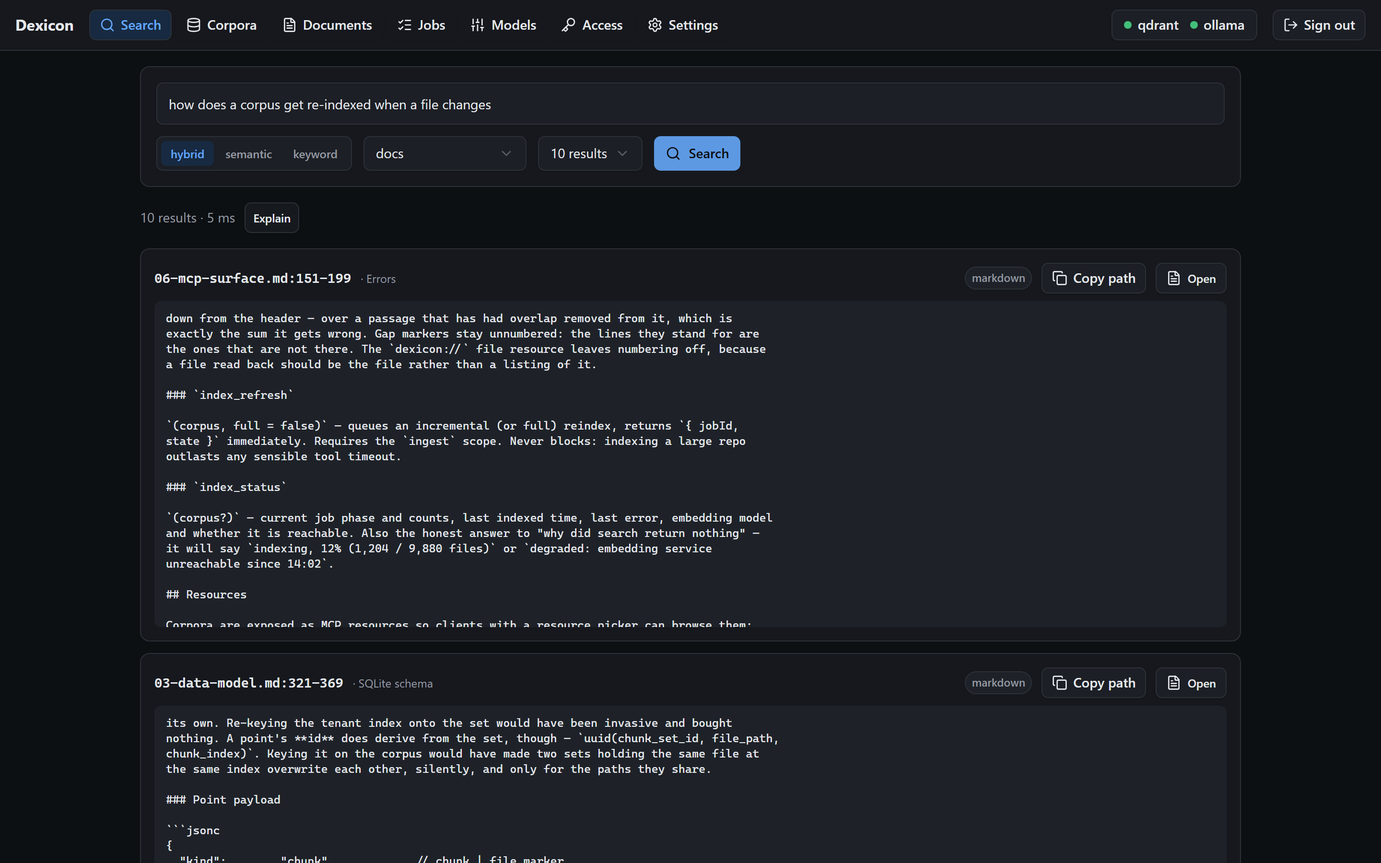
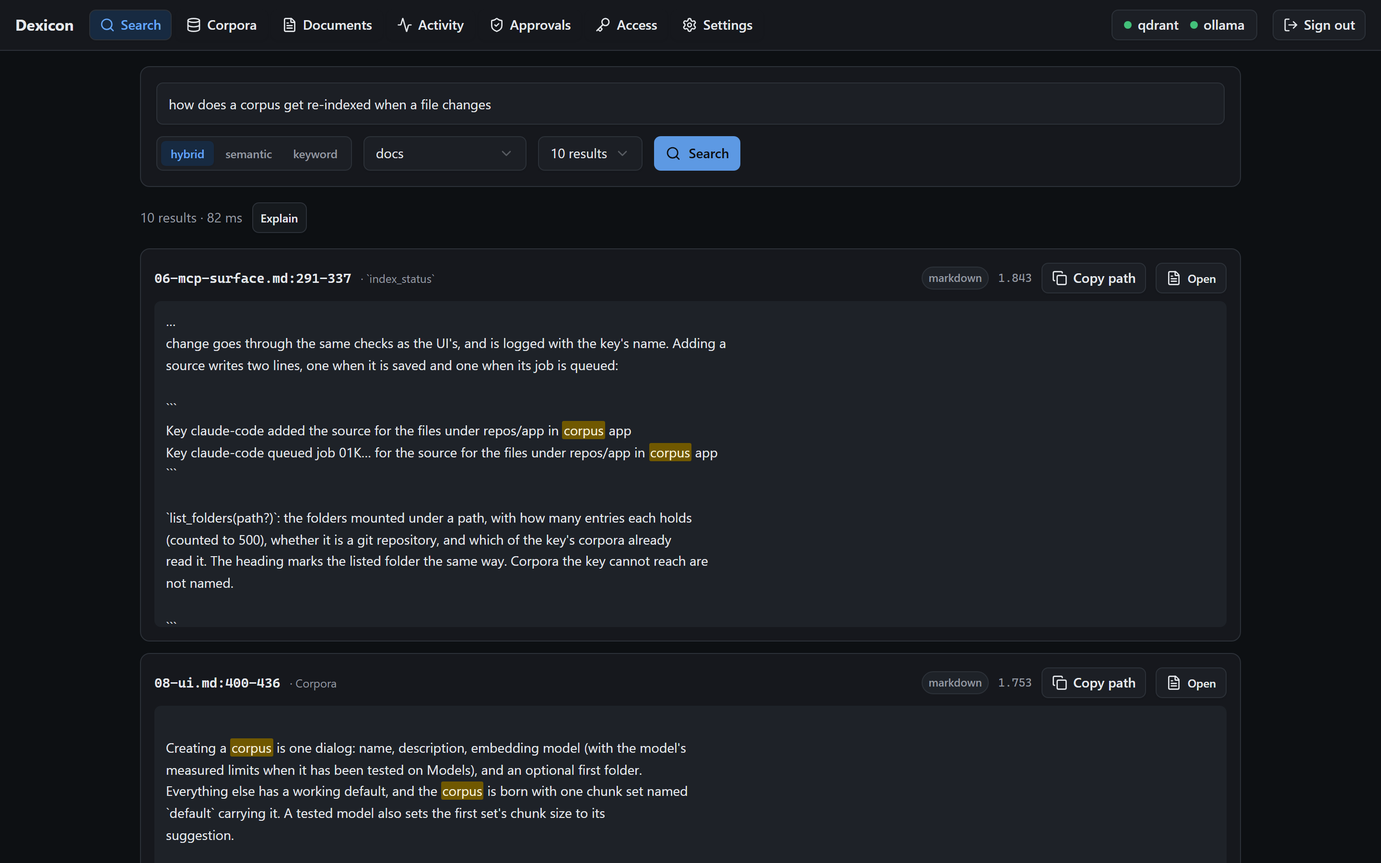
correct the documentation against the code before 0.8.0 (#363)
* correct the docs on chunking, the search log and configuration import

- language-aware chunking fills to the budget and backs up to the last member
  boundary (docs/04, CodeChunker comment)
- search log: the `other` surface, the disabled log and dropped rows, and
  retention 0 keeping every row (docs/02, 03, 05); the screen is Search history
  (.env.example)
- import reads one chunk set for a corpus it creates (docs/11); the key mapping
  export exists and import does not read keys (docs/07); the import result list
  (docs/08); which sources the export holds (docs/10)
- Key.Scopes comment lists all five issuable scopes

* correct the UI docs on retries, loading, failure units and sign-in with a key

- a refresh retries only failures that may not recur, and the Full reindex
  dialog says so (docs/08, docs/04)
- the failure unit is files, commits or documents, with stashes counting as
  documents (docs/08)
- which screens show "Loading..." for their own list (docs/08)
- a key pasted into the sign-in form is refused as an incorrect password
  (troubleshooting)

* correct the MCP docs on the result header, resource scope errors and context cuts

- search_index says "1 result" or "No results" for one or none (docs/05)
- a dexicon:// resource's scope error has no Access-page sentence (docs/06)
- keep the pathPrefix description cell to the text the tool advertises (docs/06)
- the context hook comment: the server cuts the last block to fit
[…]

diff --git a/clients/web-ui/src/api.test.ts b/clients/web-ui/src/api.test.ts
@@ -82,16 +82,16 @@ describe('a failing request', () => {
   });
 
   it('carries the server’s own message, which is written for a person to act on', async () => {
-    // "Unknown corpus 'api'. Visible corpora: api-repo, rfc-library." is the most useful
+    // "Unknown corpus 'api'. Corpora this key can reach: api-repo, rfc-library." is the most useful
     // thing in the response; a generic "Request failed" throws it away.
     fetchMock.mockResolvedValue(
-      problem(404, 'Unknown corpus', "Unknown corpus 'api'. Visible corpora: api-repo."),
+      problem(404, 'Unknown corpus', "Unknown corpus 'api'. Corpora this key can reach: api-repo."),
     );
 
     await expect(api.getCorpus('api')).rejects.toMatchObject({
       status: 404,
       title: 'Unknown corpus',
-      detail: "Unknown corpus 'api'. Visible corpora: api-repo.",
+      detail: "Unknown corpus 'api'. Corpora this key can reach: api-repo.",
     });
   });
 

diff --git a/clients/web-ui/src/CorpusDetail.test.tsx b/clients/web-ui/src/CorpusDetail.test.tsx
@@ -2638,9 +2638,9 @@ describe('the full reindex', () => {
       .toBeInTheDocument();
   });
 
-  it('mentions the failures it will retry, and that a refresh retries them too', async () => {
+  it('mentions the failures it will retry, and which of them a refresh retries', async () => {
     // Otherwise a failed file is a reason to reach for the expensive button when the cheap
-    // one would have done it: a failed file has no fingerprint to skip on.
+    // one would have done it: a refresh retries a failure that may not recur.
     getCorpus.mockResolvedValue(corpus({ chunkSets: [chunkSet({ failedCount: 8 })] }));
 
     render(<CorpusDetail {...props} />);

diff --git a/clients/web-ui/src/api.ts b/clients/web-ui/src/api.ts
@@ -199,7 +199,7 @@ export class ApiError extends Error {
  * Turns whatever the generated client threw into the one error shape the UI renders.
  *
  * The server answers failures with RFC 9457 problem details and writes them for a person
- * to act on: "Unknown corpus 'api'. Visible corpora: api-repo, rfc-library." Losing that
+ * to act on: "Unknown corpus 'api'. Corpora this key can reach: api-repo, rfc-library." Losing that
  * to a generic message would throw away the most useful thing in the response.
  */
 function toApiError(e: unknown, status = 0): ApiError {

diff --git a/src/Dexicon.Core/Indexing/CodeChunker.cs b/src/Dexicon.Core/Indexing/CodeChunker.cs
@@ -69,12 +69,13 @@ public sealed record ChunkOptions
 }
 
 /// <summary>
-/// Line-accumulating chunker. Never splits a line, so every chunk carries an exact
+/// Line-accumulating chunker. Splits a line only when it is longer than the whole budget
+/// (every piece keeps that line's number), so every chunk carries an exact
 /// <c>start_line</c>/<c>end_line</c> and a result is directly openable in an editor.
 ///
-/// With <c>language-aware</c> the file is first split at member boundaries, then each
-/// segment is size-chunked, which keeps a method with its signature instead of slicing
-/// it at an arbitrary token count.
+/// With <c>language-aware</c> the accumulator fills to the budget and then backs up to
+/// the last member boundary in the buffer (see <c>ChunkLines</c>), so a chunk holds whole
+/// members where they fit and a method stays with its signature.
 /// </summary>
 public static class CodeChunker
 {

diff --git a/hooks/claude/dexicon-context.py b/hooks/claude/dexicon-context.py
@@ -110,8 +110,8 @@ def main() -> int:
 
     # The server explains itself, and does it better than this hook could: the note names
     # the smallest chunk it had to reject, so "raise the budget" comes with the figure.
-    # Nothing is truncated to fit, by design -- the unit is a whole chunk, because half a
-    # passage under a citation claiming to be the passage reads as complete and is not.
+    # The server cuts only the last block to fit, and says so in the passage, the citation
+    # (`partial`, `omittedChars`) and the note, so the hook passes the text on unchanged.
     note = (result.get("note") or "").strip()
 
     context = (result.get("context") or "").strip()

diff --git a/src/Dexicon.Core/Catalog/Entities.cs b/src/Dexicon.Core/Catalog/Entities.cs
@@ -15,7 +15,7 @@ public sealed class ApiToken
     public required string Name { get; set; }
     public required byte[] TokenHash { get; set; }
     public required byte[] TokenSalt { get; set; }
-    public required string Scopes { get; set; }          // csv: search, ingest, configure
+    public required string Scopes { get; set; }          // csv: search, ingest, configure, propose, destroy
     public DateTime CreatedUtc { get; set; }
     public DateTime? LastUsedUtc { get; set; }
     public DateTime? ExpiresUtc { get; set; }

diff --git a/docs/04-ingestion.md b/docs/04-ingestion.md
@@ -582,7 +582,7 @@ document was deleted while it waited to be attached ... Upload it again."
 
 The request as a whole is bounded at ten files at the cap plus 1 MiB of multipart framing,
 which is 2,098,200,576 bytes at the default and follows `DEXICON__UPLOAD__MAXFILEBYTES`.
-The web UI sends a drop of more than ten files as several requests of at most ten, one after
+The web UI sends an upload of more than ten files as several requests of at most ten, one after
 another, so the bound allows a full request. A larger body is refused with `413` and a message
 that names the bound, before any of it is read when the client declares its `Content-Length`,
 and otherwise when the body reaches the bound. Files stored before the bound was reached stay
@@ -598,8 +598,8 @@ limit are in neither `stored` nor `failed`. The files before it stay stored and 
 none of them was stored the answer is `400`: "No files could be stored" when a file part was
 reached, with the failures as its detail (`503` instead when one of the failures is an extraction
 that timed out or failed on the server, because the caller did nothing wrong and sending the file
-again can succeed; the web UI ends a multi-request drop at a 5xx and lists the files not yet sent
-as `Not sent`), and "No files in the request" when only form fields were read, with the
+again can succeed; the web UI ends a multi-request upload at a 5xx, a 401, a 403, a network failure or an answer that is not an upload result, continues
+after any other 4xx, and lists the files not yet sent as `Not sent: an earlier request failed.`), and "No files in the request" when only form fields were read, with the
 request-level text as its detail when the section limit was hit and no detail otherwise.
 
 A probe against Kestrel with the body-size limit unset, as the endpoint sets it, found that the
@@ -636,10 +636,10 @@ encrypted or corrupt file, is stored with its message as the document's empty re
 
 Because no row records a timeout, a file that times out every time does so for the full budget on
 every upload of it, and the response carries no `Retry-After`. A request that stored nothing, where at least
-one file failed for such a reason, answers `503`. In the web UI a drop of more than ten files is sent as several
-requests, and a request that answers `503` ends the drop: the files not yet sent are listed as
+one file failed for such a reason, answers `503`. In the web UI an upload of more than ten files is sent as several
+requests, and a request that answers `503` ends the upload: the files not yet sent are listed as
 `Not sent`. That is intended. A server that cannot extract is not helped by more uploads, and
-dropping the rest again is the retry.
+uploading the rest again is the retry.
 
 A `blob_texts` row that an earlier version wrote for an I/O error, a refused permission, a shortage
 of memory, a `TimeoutException`, or an extraction failure that wraps one of those keeps that message
@@ -684,8 +684,8 @@ handled like an overrun of the byte bound: files completed before it stay stored
 the response lists the cause under `failed` with a `null` `file`, and when nothing was stored the answer is
 `400` "Malformed multipart upload". A client that disconnects after some files were stored is handled
 the same way: those files are attached and indexed, and the file being attached at that moment is
-discarded rather than saved without being reported. The Documents screen names each file in
-`failed` under the count it stored.
+discarded rather than saved without being reported. The Documents screen lists each file in
+`failed` under "N files not stored".
 
 The blob store writes each file to a temp file under `/data/blobs` before the hash is
 known, because the hash is only known once the whole stream is read and a 200 MB upload
@@ -1362,9 +1362,9 @@ Accumulates whole lines up to `chunk_size` tokens with `chunk_overlap` carried i
 next chunk, so every chunk has an exact `start_line`/`end_line`. A line is split only when it is longer than the whole
 budget ([below](#no-chunk-exceeds-the-budget)).
 
-With `boundary_mode: language-aware`, the file is first split at member boundaries by
-language, then each segment is size-chunked. This keeps a method with its signature instead
-of slicing it at an arbitrary token count. The patterns are in `LanguageMap.Boundaries`. For the languages with a member pattern a
+With `boundary_mode: language-aware`, the chunker fills to the size budget and then backs up
+to the last member boundary in the buffer ([below](#size-decides-when-to-split-a-boundary-decides-where)),
+so a chunk holds whole members where they fit and a method stays with its signature. The patterns are in `LanguageMap.Boundaries`. For the languages with a member pattern a
 boundary is the member's signature line, so the comment and attribute lines above it belong to the segment before it. On the C# of
 this repository, one chunk holds a documented member's `///` block and its signature for 46.8% of such members at 256 tokens, 74.4% at
 512 and 91.7% at 1,024; attaching those lines to the member did not
@@ -1857,7 +1857,8 @@ after the walk:
 Two properties this buys:
 
 - A refresh over an unchanged tree makes **zero** embedding calls.
-- A failed file is retried next time, because its hash was never recorded.
+- A failed file is retried next time, because its hash was never recorded, unless the failure
+  was in the file's own content ([below](#a-file-the-last-pass-finished-with-is-not-read-again)).
 
 The hash above is the **chunking fingerprint**, not the content hash alone:
 

diff --git a/docs/08-ui.md b/docs/08-ui.md
@@ -104,7 +104,7 @@ exchanges it for a session; **Sign out** ends that session.
 Until the corpus list has answered, Search, Corpora, Documents, Jobs and Search history show "Loading…" and nothing else below the
 header, because they read an empty list as "no corpora". A list that fails to load ends the wait and shows its error. Approvals, Access,
 Settings and Models do not wait for it. Jobs and Access wait for their own lists in the same way, and a first load that fails ends
-that wait too.
+that wait too. Search history, Approvals, Models and the Documents list also show "Loading…" until their own list answers.
 
 **The screen is in the URL**, as a fragment: `#/corpora`, `#/corpora/books`, `#/settings`.
 Reload, bookmark and the back button all work from it.
@@ -365,8 +365,9 @@ Detail:
 - **Actions** — Refresh, Full reindex, Delete.
 
   **Refresh** queues an incremental pass and runs on the click: it embeds what moved, which
-  on an unchanged tree with nothing failed is nothing at all. A failed file has no
-  fingerprint to skip on, so a refresh retries it.
+  on an unchanged tree with nothing failed is nothing at all. A refresh retries a failure that
+  may not recur (an embedding error, a timeout, an I/O error) and not a file whose own content
+  cannot be read, such as an encrypted or corrupt document ([04](04-ingestion.md#a-file-the-last-pass-finished-with-is-not-read-again)).
 
   **Full reindex** asks first. It reads every item again whether or not it changed, and
   re-embeds the ones that can be read and chunked, in every chunk set — one that is
@@ -387,7 +388,8 @@ Detail:
   too, so with more than one set it is reported as failures rather than as documents.
 
   The unit follows the corpus, through the same `unitFor` the rest of the screen uses: a
-  git-history corpus fails commits, a mixed one fails documents.
+  corpus with no history source fails files, a git-history corpus fails commits, and one that
+  mixes kinds or has a history source with stashes on fails documents.
 
   It does not ask for the corpus name, unlike Delete. The corpus is not cleared up front —
   vectors are replaced one item at a time as the walk reaches it — so the rest of it stays
@@ -400,8 +402,8 @@ Detail:
   neither of them: a **different embedding model** needs a new chunk set, and **new or
   changed files** need Refresh, which the dialog offers directly so that finding out here
   does not mean cancelling and going looking. Its link to Chunk sets closes the dialog and
-  opens that section. Where a set has failures it says so, and says a refresh retries them
-  too — a failed file has no fingerprint to skip on. The dialog opens with focus on
+  opens that section. Where a set has failures it says so: a full reindex retries them, and a refresh
+  retries only those that may be temporary, not files that cannot be read. The dialog opens with focus on
   **Cancel**.
 
   **Delete** requires typing the corpus name; it destroys an index that may have taken an
@@ -444,9 +446,9 @@ next tick, and nothing is read once no attachment is pending.
   stored. A file that cannot be read because of what is in it (encrypted, corrupt, nested too deep) is
   stored and counted, with the reason as the document's empty reason. A failure of the whole request is
   listed without a file name. More than ten files are sent as consecutive requests of at most ten, and the
-  screen reports the drop as one result. A request that fails is listed without a file name. A
+  screen reports the upload as one result. A request that fails is listed without a file name. A
   `4xx` answer other than `401` and `403`, such as the `400` for a request in which every file
-  was refused, does not stop the drop and the next request is sent. Any other failure (`401`,
+  was refused, does not stop the upload and the next request is sent. Any other failure (`401`,
   `403`, `5xx`, no answer, an answer that is not an upload result) stops it, since an expired
   token or a missing scope answers every request alike: files already stored stay stored, and
   each file not yet sent is listed by name as *Not sent* and counted with the files not stored. If no request stored
@@ -672,7 +674,7 @@ stored setting that could not be read ([D-53](decisions.md#d-53-the-configuratio
 
 **Import configuration** reads such a file into this instance ([D-54](decisions.md#d-54-a-configuration-file-can-be-read-into-an-instance-without-deleting-a-corpus-source-or-chunk-set)). Choosing a file and
 pressing **Check the file** sends it to `POST /api/config/import` as a dry run and lists one item for each corpus, source, chunk set,
-model profile and key with what applying would do. The items that change something or went wrong come first, and the
+model profile and key with what applying would do. Every item except the unchanged ones is listed first, and the
 unchanged ones sit in a closed group under their count. **Apply** is enabled once a check has run, asks first with the number of items that
 make a change, and then sends the file with `apply=true`. The file chooser is disabled while a request is running. The section
 says that no corpus, source or chunk set is deleted and that a narrower filter removes the files it excludes from the index.

diff --git a/docs/10-security-secrets.md b/docs/10-security-secrets.md
@@ -123,7 +123,7 @@ as the rule it protects.
 | `.env.example` stays complete | `EnvExampleDocumentsEveryVariableComposeUses` asserts every variable `docker-compose.yml` references appears in `.env.example`, `EveryDocumentedEnvironmentVariableBindsToARealOption` asserts every `DEXICON__` variable compose sets binds to an option, and `EverySettingComposePassesIsInTheDeploymentGuide` asserts each one appears in [09](09-deployment.md#configuration). A variable newly forwarded by `docker-compose.yml` without an entry in `.env.example` or the guide fails CI, and so does one that binds to no option. An option never wired into compose is invisible to these three tests. |
 | Every option is read | `EveryOptionPropertyIsReadSomewhere` asserts every property of the options classes is read by code under `src`. |
 | No credential in a derived key or digest, no forged log line | `PrincipalCacheKeyNeverContainsTheToken` asserts the principal cache key does not contain the token's secret; `CallerDigestNeverContainsTheCredential` asserts the caller digest holds neither the secret nor the id and is hex; `LogForgingTests` asserts a request path carrying a newline cannot start a log line; `ExceptionLogForgingTests` asserts the same for an exception (message, inner exception, aggregate member, stack frame, `ToString`) and for a logged value, through the console sink; `McpEchoTests` and `EchoSiteTests` assert a tool error repeats a hostile value on one line and cut, at each site they can drive, and `EchoSiteTests` reads the source of the tools to hold the rest. No test scans log calls for credentials. |
-| No unfiltered vector query | `VectorStoreRefusesAQueryWithNoCorpusFilter` asserts that `SearchAsync` throws on an empty scope. The other read methods take a chunk set and are reached after scope resolution. |
+| No unfiltered vector query | `VectorStoreRefusesAQueryWithNoCorpusFilter` asserts that `SearchAsync` throws on an empty scope. The other read methods take a chunk set and are reached from a request only after scope resolution; the indexer and the start-up passes (`PurgeUnsetChunksAsync`, the path-prefix backfill) also read without a corpus filter and answer no request. |
 | Key scoping | `KeyScopingTests` and `AdminPasswordTests` — see [07](07-auth.md). |
 
 Each guard is verified by **breaking the value and watching it go red**, then restoring it.
@@ -397,7 +397,7 @@ indexed.
 
 `GET /api/config/export` and the Settings button write the configuration as one JSON file
 ([D-53](decisions.md#d-53-the-configuration-can-be-downloaded-as-a-file)). It holds the name, scopes, reach and expiry of every key
-that is not revoked, the workspace path of every source, the filters and options of each, and the templates and notes of every
+that is not revoked, the path of every workspace and history source (an upload source is left out, and so is a history source whose stored options cannot be read), the filters and options of each, and the templates and notes of every
 saved model profile. It holds no key secret and no hash (a secret exists only as a hash in the catalogue), no admin password, no id
 and no indexed content. Text typed into a description, a note, a template or a boundary pattern is written as typed, so a secret
 pasted into one is in the file. Only an administrator can fetch it, and the response is marked `Cache-Control: no-store`. Treat a

diff --git a/docs/06-mcp-surface.md b/docs/06-mcp-surface.md
@@ -92,7 +92,7 @@ tool advertises.
 | `corpus` | array of string | everything the key can reach | Corpus names to search. With several corpora, name the one or two whose list_corpora descriptions fit the question: searching all of them lets hits from the others crowd out the answer. Omit to search everything visible to you. |
 | `mode` | string | `hybrid` | hybrid blends meaning with exact terms; semantic is meaning only; keyword is exact-match only and keeps working when embeddings are unavailable. |
 | `limit` | integer | 10 | Maximum results, 1-50. |
-| `pathPrefix` | string | none | Restrict to files under this path: a folder or a file, matched at whole path segments and ignoring case, relative to the source root, not the corpus. `src/Auth` finds `src/Auth/a.cs` and not `src/Authorization/c.cs` or `lib/src/Auth/b.cs`. Use `source` to narrow by folder instead when the folder is a source's root ([05](05-search.md#shape-of-a-query)). |
+| `pathPrefix` | string | none | Restrict to files under this path: a folder or a file, matched at whole path segments and ignoring case, relative to the source root, not the corpus. `src/Auth` finds `src/Auth/a.cs` and not `src/Authorization/c.cs` or `lib/src/Auth/b.cs`. Use `source` to narrow by folder instead when the folder is a source's root. See also [05](05-search.md#shape-of-a-query). |
 | `source` | string | none | Restrict to one source, by the root path a search result cites, e.g. books/manuals/Architecture. A parent matches everything beneath it, so books/manuals covers every topic folder under it. list_corpora does not list these; run a search first, or pass a wrong one and the error lists them, up to 1,500 characters and then how many more. |
 | `language` | string | none | Restrict to one language, e.g. csharp, python, typescript. |
 | `symbol` | string | none | Restrict to chunks declaring this symbol, e.g. TokenService. |
@@ -461,7 +461,7 @@ section shows.
 | Unknown corpus, `index_refresh`, `propose_removal`, configuration tools | `No corpus named 'api' is reachable by key 'claude-code'. Corpora this key can reach: api-repo, rfc-library.` |
 | No reachable corpora, `search_index` | `Key 'claude-code' can reach no corpora. Create one in the UI, or check which corpora this key is mapped to under Access.` |
 | Dimension mismatch | `Collection '<collection>' was indexed with 768-dimension vectors but the configured model produces 1024. Rebuild the corpus with the current model, or restore the original one.` |
-| Key lacks the scope | `This key has scopes [search] and needs 'ingest'. Whoever runs Dexicon can grant it on the Access page.` |
+| Key lacks the scope | `This key has scopes [search] and needs 'ingest'. Whoever runs Dexicon can grant it on the Access page.` A `dexicon://` resource ends the message after `needs 'search'.` |
 | No principal on the request | `Not authenticated. Add an Authorization: Bearer dex_… header to the MCP server configuration.` |
 | No such file, `get_context` | `No indexed file 'src/Missing.cs' in corpus 'api-repo'. Check the path is exactly as search_index returned it.` |
 | Line past the end, `get_context` | `'docs/auth.md' in corpus 'api-repo' has no line 900; it runs to line 120.` |

diff --git a/docs/03-data-model.md b/docs/03-data-model.md
@@ -17,7 +17,7 @@ catalogue is authoritative and Qdrant is a derived view that can be rebuilt from
 |---|---|
 | **Key** | An agent's credential. Carries one or more of `search`, `ingest`, `configure`, `propose` and `destroy`, never `admin`, and maps to the corpora it may reach. |
 | **Proposal** | A removal an agent asked for and a person has yet to decide, or the record of how it was decided. Holds no foreign keys, so it outlives what it names. |
-| **Search log row** | One search that ran: who asked, by which surface, what, and how it went. Holds query text for the retention period ([D-52](decisions.md#d-52-every-search-that-ran-is-recorded-and-an-administrator-can-read-the-record), [10](10-security-secrets.md#what-the-search-log-holds)). No foreign keys. |
+| **Search log row** | One search that ran: who asked, by which surface, what, and how it went. Holds the first 500 characters of the query unless `DEXICON__SEARCHLOG__STOREQUERYTEXT` is false. Removed after `DEXICON__SEARCHLOG__RETENTIONDAYS` days, 30 by default; 0 or less keeps every row ([D-52](decisions.md#d-52-every-search-that-ran-is-recorded-and-an-administrator-can-read-the-record), [10](10-security-secrets.md#what-the-search-log-holds)). No foreign keys. |
 | **Corpus** | A named, searchable body of content. The unit of reindexing and of search scope. It has no owner: which keys reach it is a property of those keys. |
 | **Chunk set** | One way of cutting and embedding a corpus: a model, a vector space, a chunking strategy. A corpus carries one or more, over the same documents. Addressed as `corpus:set`. |
 | **Source** | Where a corpus gets its content: a `workspace` mount path, a `githistory` repository under a mount (its commits), or `upload` (files pushed through the UI/API). A corpus has one or more. |
@@ -75,7 +75,7 @@ The listing was compared with the `sqlite_master` of a catalogue created by the 
 migrations (through `KeyReachIsExplicit`) for table, column, nullability, type,
 foreign-key action and index. The four `chunk_sets` columns added after it
 (`ChunkSetsRecordAModelCanary` and `ChunkSetsRecordTheirFraming`, all nullable, no `DEFAULT`)
-were taken from those two migrations and the model snapshot.
+and the `search_log` table (`SearchesAreRecorded`) were taken from those migrations and the model snapshot.
 
 ```sql
 -- Identity ------------------------------------------------------------------
@@ -390,7 +390,7 @@ CREATE INDEX ix_proposals_target ON proposals(kind, target_id, status);
 
 -- One row for each search that ran (D-52). NO FOREIGN KEYS, as for proposals: the key and the
 -- corpora are copied in by the names they had then. Written off the request path by SearchLogWriter and
--- deleted after DEXICON__SEARCHLOG__RETENTIONDAYS days.
+-- deleted once a day after DEXICON__SEARCHLOG__RETENTIONDAYS days (0 or less keeps every row).
 CREATE TABLE search_log (
   id          INTEGER PRIMARY KEY AUTOINCREMENT,  -- arrival order; what a page of the list continues from
   at_utc      TEXT NOT NULL,

diff --git a/docs/02-architecture.md b/docs/02-architecture.md
@@ -47,7 +47,8 @@ additional failure mode without benefit. See
 | `WorkScheduler` | in-process queue, one dispatch rule | Holds pending work; hands out a slot when the type has one free and the corpus is idle |
 | `WorkerPool` | `BackgroundService`, one worker per slot | Runs sweeps, index passes and rebuilds; emits progress events |
 | `ScheduledRefreshService` | `BackgroundService` | Queues a refresh of each idle corpus every `DEXICON__INDEXING__REFRESHMINUTES`; off when 0, the default |
-| `SearchLogWriter` | `BackgroundService` | Writes the searches `SearchLog` queued, in batches, and deletes rows older than `DEXICON__SEARCHLOG__RETENTIONDAYS` once a day ([D-52](decisions.md#d-52-every-search-that-ran-is-recorded-and-an-administrator-can-read-the-record)) |
+| `SearchLogWriter` | `BackgroundService` | Writes the searches `SearchLog` queued, in batches, and deletes rows older than `DEXICON__SEARCHLOG__RETENTIONDAYS` once a day, unless it is 0 or less ([D-52](decisions.md#d-52-every-search-that-ran-is-recorded-and-an-administrator-can-read-the-record)) |
+| `PathPrefixBackfillService` | `BackgroundService` | Once at start, sets the `path_prefixes` payload on chunks written before it existed; after a failure it tries again a minute later, ten attempts in all ([03](03-data-model.md)) |
 | `ModelCanaryService` | `BackgroundService` | Every six hours (first check one minute after start), embeds a fixed sentence with each chunk set's model and compares it with the stored vector; records the document template of a set that has none. Advisory; `/healthz` reports the result ([D-46](decisions.md#d-46-a-chunk-set-records-what-its-model-answers-to-a-fixed-sentence), [D-47](decisions.md#d-47-a-chunk-set-records-the-document-template-it-was-embedded-with)) |
 | `Catalog` | EF Core + SQLite | Corpora, sources, files, jobs, keys and what each reaches |
 | `VectorStore` | `Qdrant.Client` (gRPC) | Collection lifecycle, upsert, query |
@@ -101,7 +102,7 @@ Response
 Two round trips to external services on the hot path (embedding provider, Qdrant query) when
 the resolved scope uses one collection. A collection is one vector space, so a scope that
 spans several embedding models embeds the query for each model (a query embedding is cached
-by model and text) and runs one Qdrant query for each collection, then merges the hits by
+for five minutes by provider, model, the model's query template and the text) and runs one Qdrant query for each collection, then merges the hits by
 score. The sparse encoding is in-process. Target p95 under 400 ms for a warm `embeddinggemma`
 over one collection.
 
